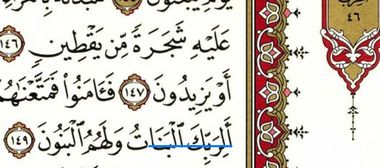
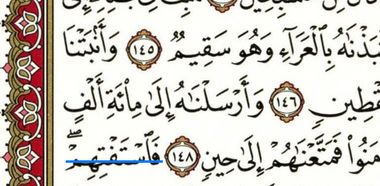
fix(qatar-layout): pages 451-452 line breaks match the print; print-check decisions applied
Qatar layout pages 451 (lines 2-15) and 452 (lines 1-14) ended each line one
word early (verse markers carried to the next line), so word boxes there sat on
the wrong words. Re-read from the scan; no other page has a line starting with
a verse marker. The Qatar 37:149:1 card is recut on the corrected box: صلى is
printed on «فاستفتهم», the column stays.

apply_print_check.py writes the reviewed print-check cards to the local columns
and publishes them: Kuwait 43:80:7 ص→ج, Bahrain 2:184:29 +ج, 19:38:5 +ص,
39:20:16 +ص (the waqf database itself is committed locally only).

diff --git a/pipeline/apply_print_check.py b/pipeline/apply_print_check.py
@@ -1,0 +1,112 @@
+#!/usr/bin/env python3
+"""Apply the reviewer's decisions on the mesaha-waqf-prints-check cards (Qatar / Kuwait / Bahrain) to the waqf
+columns: the local mushaf_waqf.db rows and the cloud's published marks.
+
+Only the decided cards whose sign differs from the column are written. In the cloud each change is a draft,
+then the edition is published with the editor's atomic publish; the run stops first if the edition already has
+other unpublished drafts, so nothing else gets published with them.
+
+Dry run by default; ``--apply`` writes (local backup first).
+
+    python3 pipeline/apply_print_check.py
+    python3 pipeline/apply_print_check.py --apply
+"""
+from __future__ import annotations
+
+import argparse
+import shutil
+import sqlite3
+import sys
+from datetime import datetime, timezone
+from pathlib import Path
+
+ROOT = Path(__file__).resolve().parents[1]
+sys.path.insert(0, str(ROOT))
+
+from core import supabase_editor as sb  # noqa: E402
+from core.config import MUSHAF_WAQF_DATABASE  # noqa: E402
+
+SET = 'mesaha-waqf-prints-check'
+
+
+def changes() -> list[dict]:
+    from modules import mesaha_waqf_review as mw
+    data = mw._load_set(SET)
+    decided = mw.set_decisions(data)
+    out = []
+    for c in data['cards']:
+        row = decided.get(c['id'])
+        if row is None:
+            continue
+        mark = (row.get('correct_mark') or '').strip()
+        if mark != (c['model'] or ''):
+            s, a, w = map(int, c['key'].split(':'))
+            out.append({'edition': c['print'], 'key': (s, a, w), 'old': c['model'] or '', 'new': mark, 'text': c['text']})
+    return out
+
+
+def main(argv: list[str] | None = None) -> int:
+    ap = argparse.ArgumentParser(description=__doc__, formatter_class=argparse.RawDescriptionHelpFormatter)
+    ap.add_argument('--apply', action='store_true')
+    args = ap.parse_args(argv)
+    from dotenv import load_dotenv
+    load_dotenv(ROOT / '.env')
+    if not sb.is_configured():
+        print('SUPABASE_URL / SUPABASE_SERVICE_ROLE_KEY are not configured')
+        return 2
+    from pipeline.sync_published_waqf import load_local_state
+
+    todo = changes()
+    for c in todo:
+        print(f"{c['edition']} {':'.join(map(str, c['key']))} {c['text']}: {c['old'] or '-'} → {c['new'] or '-'}")
+    if not todo:
+        print('nothing to change')
+        return 0
+    editions = sorted({c['edition'] for c in todo})
+    for ed in editions:
+        pending = sb.pending_publish_diff(ed)
+        if pending:
+            print(f'{ed}: {len(pending) if hasattr(pending, "__len__") else pending} unpublished draft(s) already in the cloud; publish or clear them first')
+            return 1
+    if not args.apply:
+        print('dry run: nothing written (add --apply)')
+        return 0
+
+    stamp = datetime.now(timezone.utc).strftime('%Y%m%dT%H%M%SZ')
+    backup = ROOT / 'artifacts' / 'backups' / f'mushaf_waqf.{stamp}.db'
+    backup.parent.mkdir(parents=True, exist_ok=True)
+    shutil.copy2(MUSHAF_WAQF_DATABASE, backup)
+    conn = sqlite3.connect(MUSHAF_WAQF_DATABASE)
+    with conn:
+        for c in todo:
+            n = conn.execute(f'UPDATE waqf SET "{c["edition"]}" = ? WHERE "السورة" = ? AND "الآية" = ? AND word_index = ?',
+                             (c['new'] or None, *c['key'])).rowcount
+            if n != 1:
+                raise SystemExit(f"no single waqf row for {c['key']}")
+    conn.close()
+
+    state = load_local_state(Path(MUSHAF_WAQF_DATABASE), editions)
+    conn = sqlite3.connect(MUSHAF_WAQF_DATABASE)
+    rowid_of = {c['key']: conn.execute('SELECT rowid FROM waqf WHERE "السورة" = ? AND "الآية" = ? AND word_index = ?',
+                                       c['key']).fetchone()[0] for c in todo}
+    conn.close()
+    # the cloud is keyed by its own token numbering: the local row's mapped token (by rowid)
+    token_of = {r['rowid']: k for k, r in state['rows'].items()}
+    for ed in editions:
+        rows = []
+        for c in (x for x in todo if x['edition'] == ed):
+            k = token_of.get(rowid_of[c['key']])
+            if k is None:
+                raise SystemExit(f'{ed} {c["key"]}: no cloud token for the word')
+            rows.append({'edition': ed, 'surah': k[0], 'ayah': k[1], 'token_index': k[2], 'status': 'draft',
+                         'symbol': c['new'], 'word_text': state['rows'][k]['canonical_word']})
+        sb.upsert_marks_batch(rows)
+        pending = sb.pending_publish_diff(ed)
+        n = sb.publish_edition(ed, actor_id=None, actor_name='Print check cards', expected_changes=pending)
+        print(f'{ed}: published {n}')
+    print(f'local backup {backup}')
+    return 0
+
+
+if __name__ == '__main__':
+    raise SystemExit(main())
